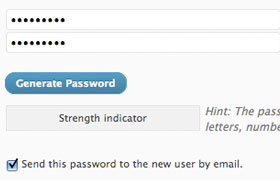
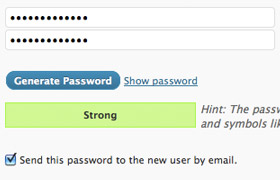
Updates to version 2.1; added 'Show password' feature and cleaned up code base
git-svn-id: http://plugins.svn.wordpress.org/wp-password-generator/trunk@390846 b8457f37-d9ea-0310-8a92-e5e31aec5664

diff --git a/wp-password-generator.js b/wp-password-generator.js
@@ -1,17 +1,31 @@
 /*
 	Plugin Name: WP-Password Generator
-	Plugin URI: http://stevegrunwell.com/wp-password-generator.php
-	Version: 2.0
+	Plugin URI: http://stevegrunwell.com/wp-password-generator
+	Version: 2.1
 */
 
-jQuery(document).ready(function(){
-	jQuery('#pass-strength-result').before('<br /><button id="password_generator" class="button-primary">Generate Password</button><br />');
+(function($){
+	$(document).ready(function(){
+		$('#pass-strength-result').before('<br /><button id="password_generator" class="button-primary">Generate Password</button><br />');
 
-	jQuery('#password_generator').bind('click', function(){
-		jQuery.post(ajaxurl, { action : 'generate_password' }, function(p){
-			jQuery('#pass1, #pass2').val(p).trigger('keyup');
-			jQuery('#send_password').attr('checked', 'checked');
+		$('#password_generator').bind('click', function(){
+			$.post(ajaxurl, { action : 'generate_password' }, function(p){
+				$('#pass1, #pass2').val(p).trigger('keyup');
+				$('#password_generator_toggle kbd').html(p);
+			
+				/* Append the 'Show password' link and bind the click event */
+				if( $('#password_generator_toggle').length === 0 ){
+					$('#send_password').attr('checked', 'checked'); // Only do this the first time
+					$('#password_generator').after('<span id="password_generator_toggle" style="margin-left:.25em;"><a href="#">Show password</a></span>');
+					$('#password_generator_toggle a').live('click', function(){
+						$(this).fadeOut(200, function(){
+							$('#password_generator_toggle').html('<kbd style="font-size:1.2em;">' + $('#pass1').val() + '</kbd>');
+						});
+						return false;
+					});
+				}	
+			});
+			return false;
 		});
-		return false;
 	});
-});
+})(jQuery);

diff --git a/wp-password-generator.php b/wp-password-generator.php
@@ -9,33 +9,48 @@
 	License: GPL2
 */
 
-	function wp_password_generator_load(){
-		if( basename($_SERVER['PHP_SELF']) == 'user-new.php' ){
-			wp_enqueue_script('wp-password-generator', '/wp-content/plugins/wp-password-generator/wp-password-generator.js', array('jquery'), '2.0', true);
+/**
+ * Instantiate the plugin/enqueue wp-password-generator.js
+ *
+ * @return bool
+ * @package WordPress
+ * @subpackage WP Password Generator
+ */
+function wp_password_generator_load(){
+	if( basename($_SERVER['PHP_SELF']) == 'user-new.php' ){
+		wp_enqueue_script('wp-password-generator', '/wp-content/plugins/wp-password-generator/wp-password-generator.js', array('jquery'), '2.1', true);
+	}
+	return true;
+}
+
+/**
+ * Handle an Ajax request for a password, print response.
+ *
+ * Uses $len and $allowed to control the length and allowed characters (respectively)
+ *
+ * @return bool (echoes password)
+ * @package WordPress
+ * @subpackage WP Password Generator
+ */
+function wp_password_generator_generate(){
+	$password = '';
+	$len = mt_rand(7, 16); // Min/max password lengths
+	$allowed = '0123456789ABCDEFGHIJKLMNOPQRSTUVWXYZabcdefghijklmnopqrstuvwxyz!@#$%^&*()'; // Available characters
+	$i = 0;
+
+	while( $i <= $len ){
+		$char = substr( $allowed, mt_rand(0, strlen($allowed)-1 ), 1 );
+		if( !strstr($password, $char) ){ 
+			$password .= $char;
+			$i++;
 		}
-		return;
 	}
 
-	/* Handle an Ajax request for a password */
-	function wp_password_generator_generate(){
-		$password = '';
-		$len = mt_rand(7, 16);
-		$allowed = '0123456789ABCDEFGHIJKLMNOPQRSTUVWXYZabcdefghijklmnopqrstuvwxyz!@#$%^&*()';
-		$i = 0;
-	
-		while( $i <= $len ){
-			$char = substr( $allowed, mt_rand(0, strlen($allowed)-1 ), 1 );
-			if( !strstr($password, $char) ){ 
-				$password .= $char;
-				$i++;
-			}
-		}
+	echo $password;
+	return true;
+}
 
-		echo $password;
-		return true;
-	}
-	
-	add_action('admin_print_scripts', 'wp_password_generator_load'); 
-	add_action('wp_ajax_generate_password', 'wp_password_generator_generate');
+add_action('admin_print_scripts', 'wp_password_generator_load'); // run wp_password_generator_load() during admin_print_scripts
+add_action('wp_ajax_generate_password', 'wp_password_generator_generate'); // Ajax hook
 
 ?>
